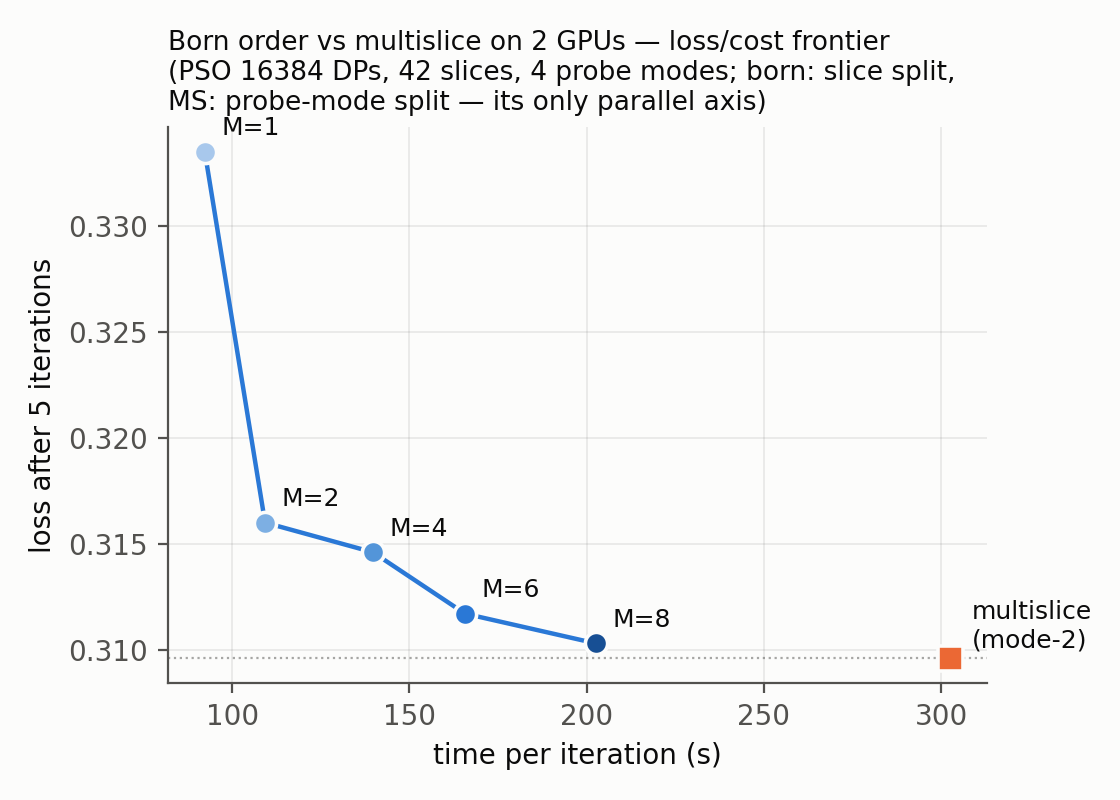
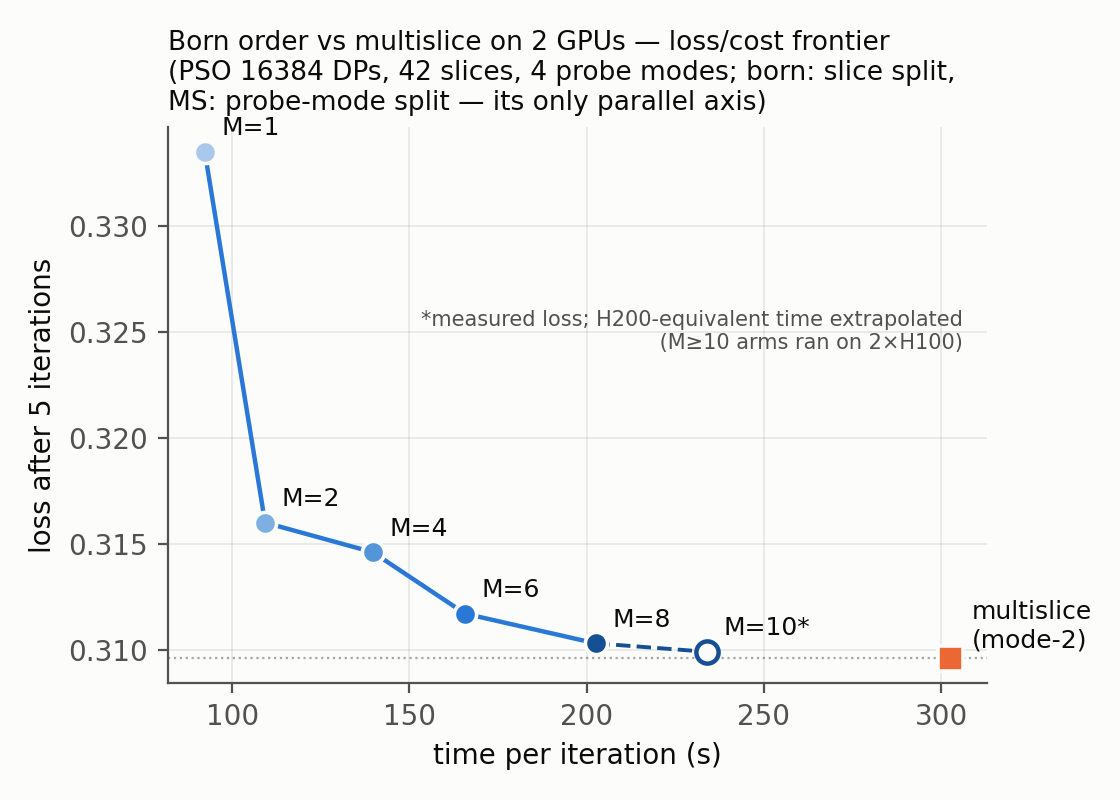
Pareto figure: M=10 extension point (loss 0.3099, H200-equivalent time extrapolated)

Changed region(s): [[0.375, 0.375, 0.875, 0.4375], [0.5625, 0.75, 0.7188, 0.8438]]

diff --git a/demo/nvlink/redo/make_figs_h200.py b/demo/nvlink/redo/make_figs_h200.py
@@ -52,9 +52,28 @@ def save(fig, name):
     print("wrote", name)
 
 
+# M>=10 extension arms ran on 2x H100 (results_redo_highM_*): losses are
+# hardware-independent (same seed/config); their H200-equivalent s/iter is
+# EXTRAPOLATED from the H200 ladder's linear cost trend (~15.7 s/order).
+EXT = {10: 0.3099}  # add 12: ..., 14: ... when those arms land
+EXT_SITER = {m: SLICE_SITER[-1] + 15.7 * (m - 8) for m in EXT}
+
 # ---- A. Pareto: iter-5 loss vs time per iteration --------------------------
 fig, ax = plt.subplots(figsize=(5.6, 4.0))
 ax.plot(SLICE_SITER, LOSS5, "-", color="#2a78d6", linewidth=1.6, zorder=2)
+ext_ms = sorted(EXT)
+ax.plot([SLICE_SITER[-1]] + [EXT_SITER[m] for m in ext_ms],
+        [LOSS5[-1]] + [EXT[m] for m in ext_ms], "--", color="#174f94",
+        linewidth=1.4, zorder=2)
+for m in ext_ms:
+    ax.plot(EXT_SITER[m], EXT[m], "o", markerfacecolor=SURFACE,
+            markeredgecolor="#174f94", markeredgewidth=1.6, markersize=8,
+            zorder=3)
+    ax.annotate(f"M={m}*", (EXT_SITER[m], EXT[m]), xytext=(6, 6),
+                textcoords="offset points", fontsize=9, color=INK)
+ax.annotate("*measured loss; H200-equivalent time extrapolated\n"
+            " (M≥10 arms ran on 2×H100)", (0.97, 0.60),
+            xycoords="axes fraction", ha="right", fontsize=7.5, color=INK2)
 for m, x, y, c in zip(M_VALS, SLICE_SITER, LOSS5, RAMP):
     ax.plot(x, y, "o", color=c, markersize=8, markeredgecolor=SURFACE,
             markeredgewidth=1.3, zorder=3)
